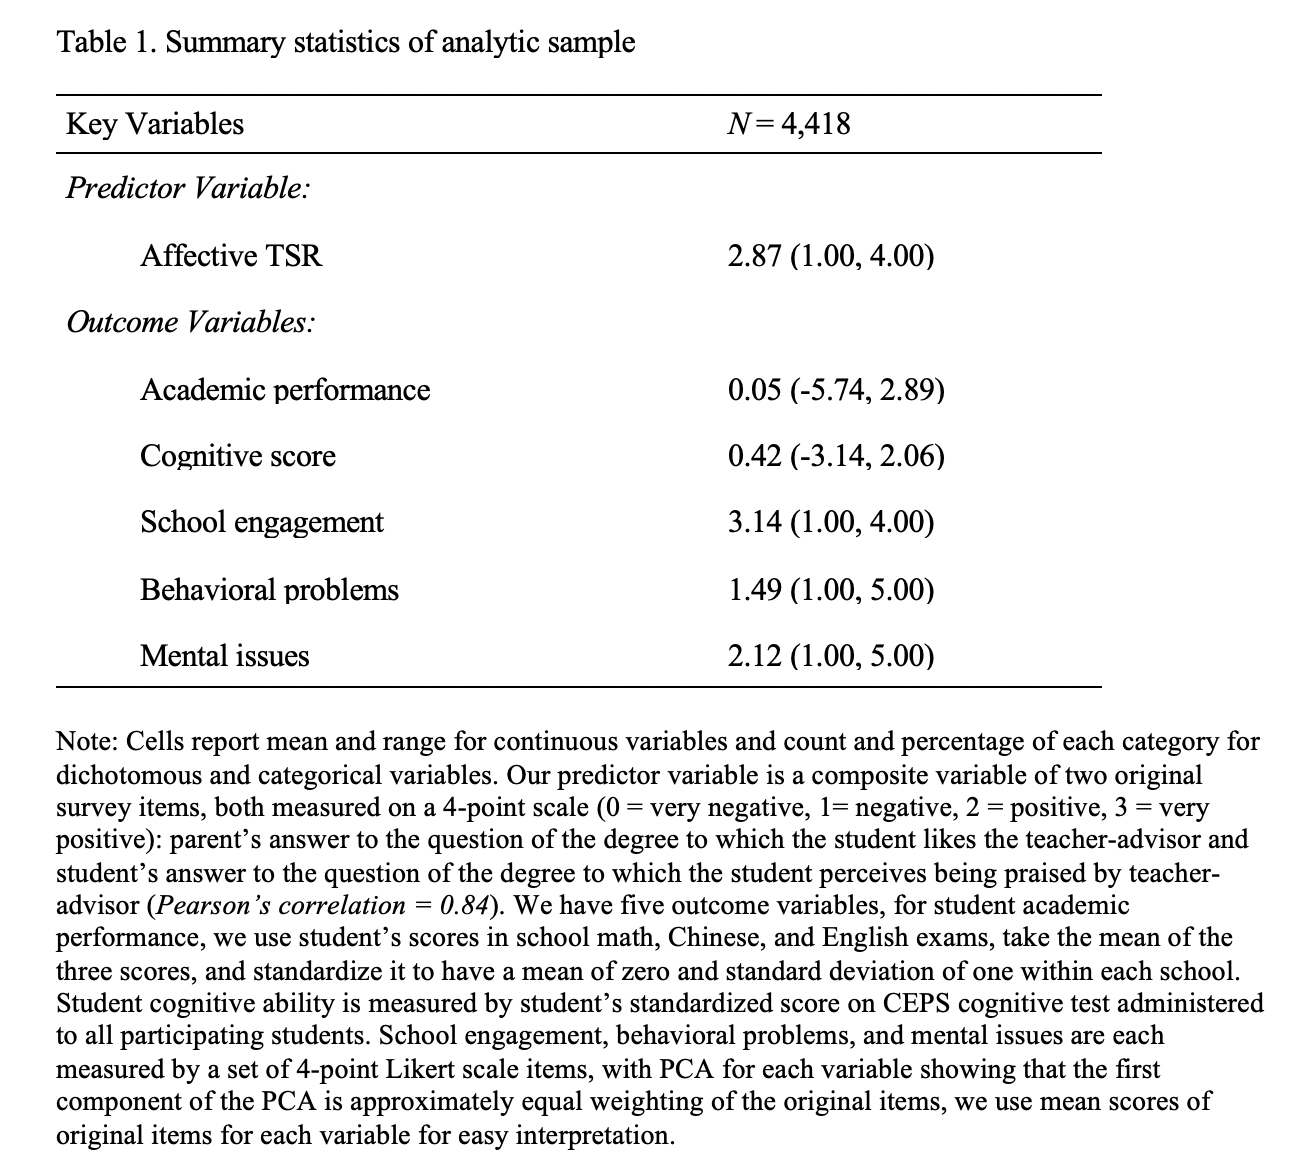
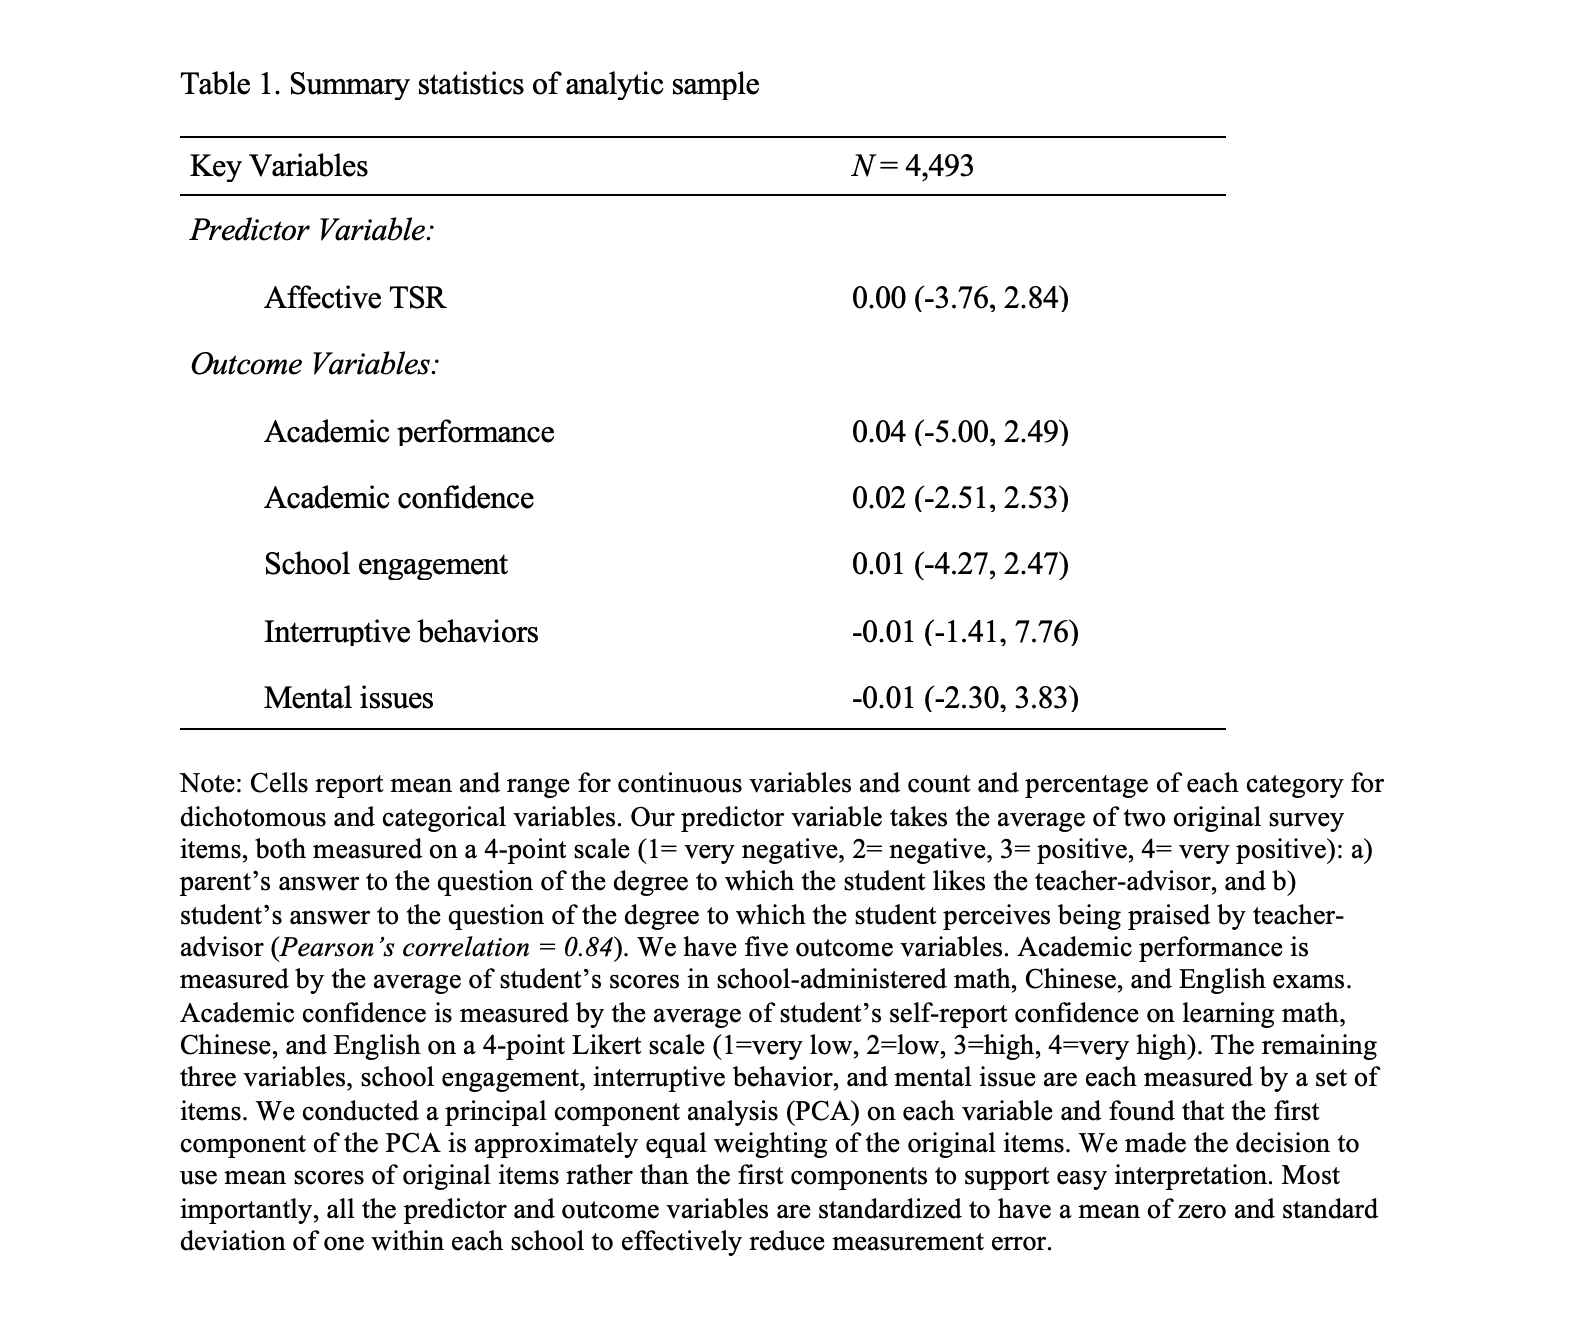
drafting SREE slides

Changed region(s): [[0.0312, 0.0308, 0.9688, 0.9863], [0.5312, 0.1849, 0.7188, 0.2466]]

diff --git a/SREE 2022/sree2022.html b/SREE 2022/sree2022.html
@@ -45,13 +45,13 @@ class: center, middle, inverse, title-slide
 
 #### Previous research
 
- - Significant correlations of teacher-student relationship and student social and cognitive development (e.g., Cornelius-White, 2007; Davis, 2003; Quin, 2017; Roorda et al., 2011) 
+ - Significant associationss between teacher-student relationship and student social and cognitive development (e.g., Cornelius-White, 2007; Davis, 2003; Quin, 2017; Roorda et al., 2011) 
 
 ---
 
 # Research Significance (cont'd)
 
-#### Threads to causal inference
+#### Threats to causal inference
 
  - Omitted variables
    - just one example: highly motivated students may seek for positive relationship with teachers AND perform better than peers
@@ -66,6 +66,17 @@ class: center, middle, inverse, title-slide
    - where we leverage random teacher-student assignment as our source of exogeneity
 
 ---
+# Research Questions 
+
+1. What student and teacher characteristics are significantly correlated with affective teacher-student relationship (ATSR)?
+ - Our data has measures of whether or not a student likes her teacher 
+
+2. What are the associations between ATSR and student academic and non-academic outcomes?
+ - We investigate five student outcomes including academic performance, academic confidence, school engagement, interruptive behavior, and mental health issue
+
+3. Whether and to what extent ATSR impacts student outcomes?
+
+---
 # Research Design
 
  - We begin with identifying a set of student and teacher characteristics that are significant predictive factors of ATSR. 
@@ -75,24 +86,13 @@ class: center, middle, inverse, title-slide
  - Most importantly, leveraging the random assignment of teachers and students in the data, we implement an Instrumental Variables Estimation (IVE) approach to identify a source of exogenous variation in ATSR and use only this part to obtain local average treatment effects of ATSR on student outcomes. 
 
 ---
-# Research Questions 
-
-1. What student and teacher characteristics are significantly correlated with affective teacher-student relationship (ATSR)?
-
- - We only have measures on whether the student like the teacher or not
-
-2. What are the associations between positive ATSR and student academic, cognitive, behavioral, and metal health outcomes?
-
-3. Whether and to what extent having a positive ATSR impact student outcomes?
-
----
-# Background
+# Background and school settings
 
 #### Random assignment of teachers to students in China
 
  - The 2006 Compulsory Education Law called off the sorting of students to teachers based on performance at elementary and middle school level 
  
- - Schools create either random or stratified homerooms of students and the same amount of teacher groups (one advisor in each group) upon students’ entry to school, then randomly assign teacher groups to student homerooms 
+ - Schools are required to create either random or stratified homerooms of students and the same amount of teacher groups (one advisor in each group) upon students’ entry to school, then randomly assign teacher groups to student homerooms 
    - students in the same homeroom share a homeroom schedule and teachers rotate to the homeroom to teach
    - to further ensure equal education opportunity, students typically stay in the assigned homerooms and teachers follow them rising to higher grades throughout all years at the same school
 
@@ -105,8 +105,8 @@ class: center, middle, inverse, title-slide
  
  - School counseling programs are carried by a unique group of teachers: teacher-advisors
    - teacher-advisors are subject teachers (typically core content teachers) who advise a homeroom they teach
-   - take on multiple duties including homeroom management, advisory period, and student counseling
-   - build stronger connections with students than non-advisory teachers do (Shi &amp; Leuwerke, 2010) 
+   - they take on multiple duties including homeroom management, advisory period, and student counseling
+   - they build stronger connections with students than non-advisory teachers do (Shi &amp; Leuwerke, 2010) 
 
 #### Our population of interest
 
@@ -115,19 +115,21 @@ class: center, middle, inverse, title-slide
 ---
 # Data 
 
-We draw sample from the publicly available, two-wave data of China Education Panel Survey (CEPS). 
+We draw sample from the publicly available, 2013/14 and 2014/15 data of China Education Panel Survey (CEPS). 
 
-We restricted our sample schools to 63 public schools that randomly assigned teachers to students and limited student sorting between two waves and obtain an analytic sample of 4,418 students. 
+We restricted our sample schools to 63 public schools that randomly assigned teachers to students and limited student sorting between two waves and obtain an analytic sample of 4,493 students. 
 
-The key variables include the predictor variable ATSR, five outcome variables (including academic performance, cognitive ability, school engagement, behavioral problems, and mental issues), and a rich set of student and teacher covariates. 
-
+Our key variables include the predictor variable ATSR, five outcome variables, and a rich set of student and teacher covariates. 
 Sample descriptive statistics and details of key measures are presented in Table 1 (next page).
 
 ---
 class: center, middle
 background-image: url(./table01.png) 
 background-size: contain
+
+
 ---
+# Methods
 
 
 ---
